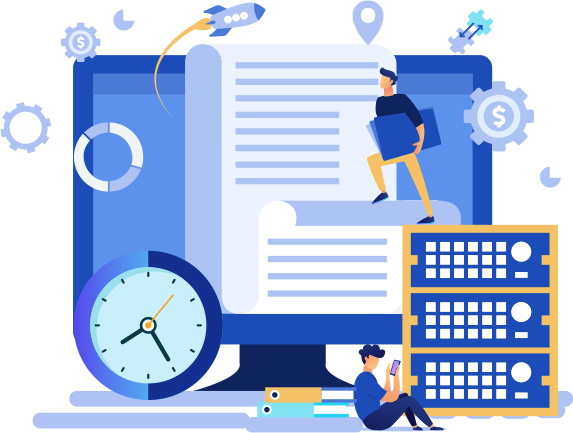
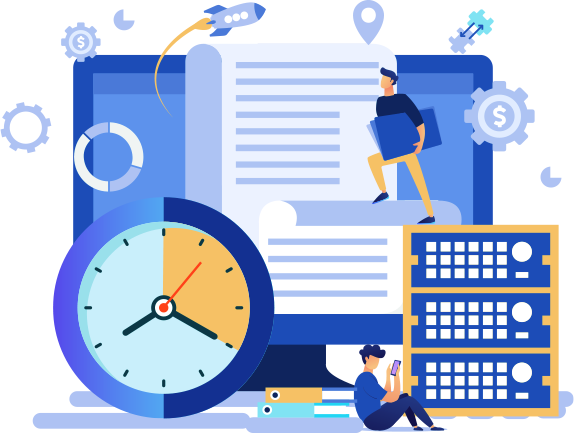
替换首页轮播图

diff --git a/src/components/LiHun/Ad/Home.vue b/src/components/LiHun/Ad/Home.vue
@@ -45,9 +45,8 @@
 			<div class="swiper03 swiperCommon">
 			  <div class="w flex justify-between items-center swi">
 				<div class="swiper03_min">
-				  <p>起草 → 下载   20分钟便捷操作</p>
-				  <h2 class="font-weight">海量知识，一站查阅</h2>
-				  <h2 class="font-weight">全程指引，一步到位</h2>
+				  <p>起草 → 下载   20分钟即可完成</p>
+				  <h2 class="font-thin">在线快捷修改，不限次数</h2>
 				  <div>
 					<div @click="goDingZhi" class="shouyedingzhibtn">
 						<img class="inline-block" src="../../../assets/images/lihun/ding_icon.png" alt="">
@@ -66,7 +65,7 @@
 			  <div class="w flex justify-between items-center swi">
 				<div class="swiper04_min">
 				  <p>服务50000+客户</p>
-				  <p>4年+婚姻家事大数据分析</p>
+				  <h2 class="font-thin text-white">4年+婚姻家事大数据分析</h2>
 				  <div>
 					<div @click="goDingZhi" class="shouyedingzhibtn">
 						<img class="inline-block" src="../../../assets/images/lihun/ding_icon.png" alt="">
@@ -75,7 +74,7 @@
 				  </div>
 				</div>
 				<div>
-				  <img style="margin-top: -37px;" src="../../../assets/images/lihun/swiper04_img04.png" alt="">
+				  <img style="margin-left: 100px;" src="../../../assets/images/lihun/swiper04_img04.png" alt="">
 				</div>
 			  </div>
 			</div>
@@ -563,11 +562,9 @@ export default {
 .swiper02_min p{color: #fff;font-weight: bold;font-size: 25px;text-align: left;}
 .swiper02_min h2{color:#fff;font-size:53px;margin-bottom: 78px;text-align: left;}
 .swiper03_min p{color: #02005b;font-size: 30px;text-align: left;margin-bottom: 15px;}
-.swiper03_min h2{color:  #02005b;font-size: 41px; text-align: left;line-height: 57px;}
-.swiper03_min h2:last-of-type{margin-bottom: 55px;}
-.swiper04_min p{font-size: 38px;color:#fff;text-align: left;font-weight: bold;}
-.swiper04_min p:first-of-type{margin-bottom: 28px;}
-.swiper04_min p:last-of-type{margin-bottom: 100px;}
+.swiper03_min h2{font-size:42px;color:#02005b;margin-bottom: 89px;text-align: left;margin-top: 19px;}
+.swiper04_min p{color: #fff;font-weight: bold;font-size: 33px;text-align: left;}
+.swiper04_min h2{color:#fff;font-size:42px;margin-bottom: 78px;text-align: left;}
 .head_com{width: 1200px;margin:0 auto;text-align: center;padding-top:110px;padding-bottom: 83px;}
 .head_com h2{font-size:43px;color:#535353;height: 43px;line-height: 43px;}
 .head_com span{font-size: 16px;color:#818181;padding:5px 13px;border:1px solid #535353;margin-top: 18px;display: inline-block;}

diff --git a/src/components/LiHun/Ad/AgreementHelpCon.vue b/src/components/LiHun/Ad/AgreementHelpCon.vue
@@ -7,7 +7,7 @@
           <h3 class="text-center text-lg font-bold">协议书定制帮助</h3>
           <ul class="mt-5">
             <li v-for="(item, index) in fenleiAll" :key="index" class="text-base leading-loose hover:font-bold text-center">
-              <h2 :class="ins === item.id?'default_active':'default'" @click="searchList(item)">{{ item.title }}</h2>
+              <h2 :class="ins === item.id?'default_active':'default'" @click="searchList(item, index)">{{ item.title }}</h2>
               <!-- <ul class="pl-2" v-if="item.data.length>0">
                 <li v-for="($item, $index) in item.data" :key="$index"  @click="searchList($item)">{{ $item.title }}</li>
               </ul> -->
@@ -69,6 +69,15 @@ export default {
     this.getWenType()
   },
   methods: {
+	  goKnowledgeMin (id) {
+	    this.$router.push({
+	      name: 'AgreementHelpCon',
+	      params: {
+	        id: id
+	      }
+	    })
+	    localStorage.setItem('AgreementHelpId',id)
+	  },
      getWenZhangCon () { // 查询单独文章
        var Id = localStorage.getItem('AgreementHelpId')
        selectNewsContent({
@@ -87,13 +96,21 @@ export default {
          this.fenleiAll = data.data[1].data
        })
      },
-     searchList (item) { // 点击文章分类跳转到文章列表页
-       this.$router.push({
-         name: 'AgreementHelp',
-         params: {
-           id: item.id
-         }
-       })
+     searchList (item, index) { // 点击文章分类跳转到文章列表页
+		if (index ==0){
+			localStorage.setItem('AgreementHelpId',17)
+			this.getWenZhangCon ()
+		} else if (index ==2){
+			localStorage.setItem('AgreementHelpId',45)
+			this.getWenZhangCon ()
+		} else {
+			this.$router.push({
+			  name: 'AgreementHelp',
+			  params: {
+			    id: item.id
+			  }
+			})
+		}
      }
   }
 }

diff --git a/src/components/LiHun/Ad/AgreementHelp.vue b/src/components/LiHun/Ad/AgreementHelp.vue
@@ -10,7 +10,7 @@
               <span class="ding_btn"><router-link to="CustomAgreement">定制我的协议书</router-link></span>
             </div> -->
             <div class="mt-10">
-              <h3 class="text-center text-lg font-bold">协议书定制帮助</h3>
+              <h3 class="text-center text-lg font-bold">协议书帮助</h3>
               <ul class="mt-5">
                 <li v-for="(item, index) in fenleiAll" :key="index" class="text-base leading-loose cursor-pointer hover:font-bold text-center">
                   <h2 :class="ins === index?'default_active':'default'" @click="searchList(item, index)">{{ item.title }}</h2>
@@ -135,20 +135,26 @@ export default {
       })
     },
     searchList (item, index) { // 点击分类查找文章
-      this.ins = index
-	  this.tableDataNull = false
-      selectFaIDNews({
-        status: 1,
-        faId: item.id,
-		page: this.currentPage
-      }).then((data) => {
-        this.tableData = data.data.data.data
-		this.total = data.data.data.total
-		if (this.tableData.length == 0 ) {
-			this.tableDataNull = true
-			this.keyMsg = item.title
-		}
-      })
+	  if (index ==0){
+		  this.goKnowledgeMin (17)
+	  } else if (index ==2){
+		  this.goKnowledgeMin (45)
+	  } else {
+		  this.ins = index
+		  this.tableDataNull = false
+		  selectFaIDNews({
+		    status: 1,
+		    faId: item.id,
+		  		page: this.currentPage
+		  }).then((data) => {
+		    this.tableData = data.data.data.data
+		  		this.total = data.data.data.total
+		  		if (this.tableData.length == 0 ) {
+		  			this.tableDataNull = true
+		  			this.keyMsg = item.title
+		  		}
+		  })
+	  }
     },
 	// 初始页currentPage、初始每页数据数pagesize和数据data
 	// 上一页
